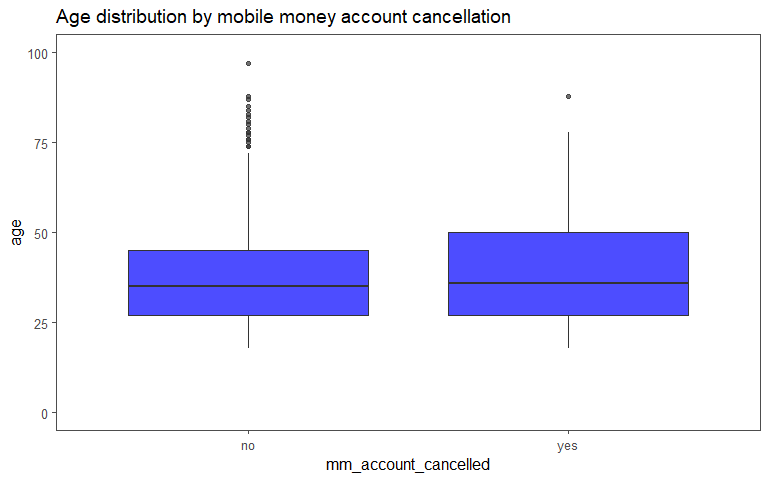
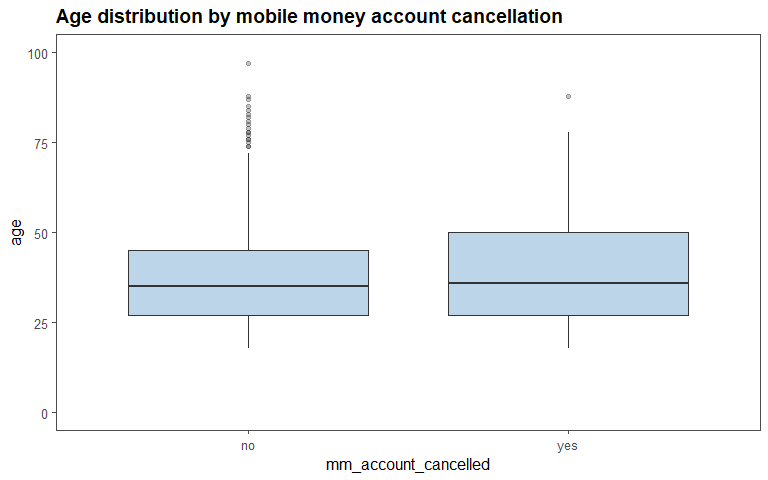
changes

diff --git a/Laterite-report.md b/Laterite-report.md
@@ -457,7 +457,8 @@ laterite_formatted %>%
     axis.title.y = element_blank(),
     axis.text.x = element_blank(),
     axis.ticks.x = element_blank(),
-    axis.text.y = element_text(face = "bold")
+    axis.text.y = element_text(face = "bold"),
+    plot.title = element_text(face = "bold")
   )
 ```
 
@@ -579,15 +580,18 @@ laterite_formatted %>%
     ) %>% 
   ggplot(
     aes(
-      x = urban, 
+      x = fct_reorder(urban, n),
       y = n
       )
     )+
   geom_col(
-    fill = "blue", 
+    fill = "#2171B5", 
     alpha = 0.7, 
     width = 0.5
     )+
+  geom_text(
+    aes(label = n, hjust = 0)
+  )+
   coord_flip()+
   theme_few()+
   labs(
@@ -595,7 +599,12 @@ laterite_formatted %>%
     y = "No of participants"
     )+
    theme(
-     axis.title.x = element_blank()
+     axis.title.x = element_blank(),
+     axis.title.y = element_blank(),
+     axis.text.x = element_blank(),
+     axis.text.y = element_text(face = "bold"),
+     plot.title = element_text(face = "bold"),
+     axis.ticks.x = element_blank()
      )
 ```
 
@@ -670,25 +679,34 @@ laterite_formatted %>%
     ) %>% 
   ggplot(
     aes(
-      x = gender, 
+      x = fct_reorder(gender, n),
       y = n
       )
     )+
   geom_col(
-    fill = "blue", 
-    alpha = 0.7, 
-    width = 0.5
+    fill = "#2171B5",
+    alpha = .7,
+    width = .5
     )+
-  ylim(
-    c(0,150)
+  geom_text(
+    aes(
+      label = n,
+      hjust = 0
+      )
     )+
+  coord_flip()+
   theme_few()+
   labs(
     title = "No. of Participants who cancelled their mobile money account by Gender",
     y = "No of participants"
     )+
    theme(
-     axis.title.x = element_blank()
+     axis.title.x = element_blank(),
+     axis.title.y = element_blank(),
+     axis.text.x = element_blank(),
+     axis.text.y = element_text(face = "bold"),
+     plot.title = element_text(face = "bold"),
+     axis.ticks.x = element_blank()
      )
 ```
 
@@ -760,8 +778,8 @@ laterite_formatted %>%
       )
     )+
   geom_boxplot(
-    fill = "blue", 
-    alpha = 0.7
+    fill = "#2171B5", 
+    alpha = 0.3
     )+
   xlim(
     c(0,100)
@@ -770,7 +788,8 @@ laterite_formatted %>%
   theme_few()+
   labs(
     title = "Age distribution by mobile money account cancellation"
-    )
+    )+
+  theme(plot.title = element_text(face = "bold"))
 ```
 
 ![](Laterite-report_files/figure-gfm/unnamed-chunk-26-1.png)<!-- -->
@@ -856,20 +875,32 @@ laterite_formatted %>%
   ) %>% 
   ggplot(
     aes(
-      x = mm_trust, 
+      x = fct_reorder(mm_trust, n),
       y = n
       )
     )+
   geom_col(
-    fill = "blue",
+    fill = "#2171B5",
     alpha = 0.7,
     width = 0.5
     )+
+  geom_text(
+    aes(
+      label = n,
+      hjust = 0
+    )
+  )+
+  coord_flip()+
   theme_few()+
   labs(
     y = "No. of customers",
     x = "Mobile Money Trust",
     title = "Mobile Money Account Cancellation by Mobile Money Trust"
+    )+
+  theme(
+    plot.title = element_text(face = "bold"),
+    axis.text.x = element_blank(),
+    axis.ticks.x = element_blank()
     )
 ```
 
